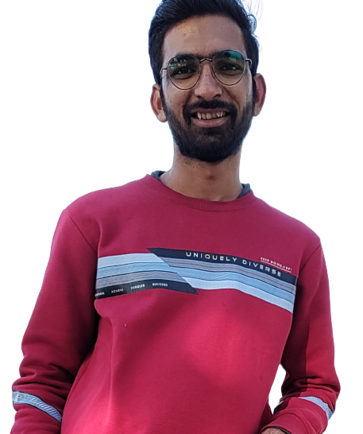
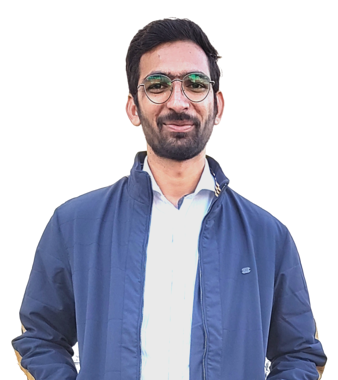
change person pic

diff --git a/src/components/Home/Home.jsx b/src/components/Home/Home.jsx
@@ -20,11 +20,7 @@ const Home = () => {
                 variants={fadeIn("right", "tween", 0.2, 1)}>
                     Hey There, <br /> I'm Naval
                 </motion.span>
-                {/* <motion.span className='secondaryText'
-                    variants={fadeIn("left", "tween", 0.4, 1)}>
-                    Frontend Developer
-                    <br /> I love to design beautiful ui
-                </motion.span> */}
+
                 <motion.div variants={fadeIn("left", "tween", 0.2, 1)} className={css.college}>
                     <img src="./college.png" alt="collegeImage" />
                     <span>M N N I T '22</span>
@@ -36,11 +32,6 @@ const Home = () => {
             <motion.div className={css.person} variants={fadeIn("up", "tween", 0.3, 1)}>
                 <motion.img src='./person.png' alt='myImage' variants={slideIn("up", "tween", 0.5, 1.2)}/>
             </motion.div>
-
-            {/* my email */}
-            {/* <a className={css.email} href='mailto:nehranvl2017@gmail.com'>
-                nehranvl2017@gmail.com
-            </a> */}
 
             <div className={css.lowerElement}>
                 <motion.span className='secondaryText'
@@ -58,11 +49,7 @@ const Home = () => {
                         <div>Experience</div>
                     </div>
                 </motion.div>
-                {/* <motion.div variants={fadeIn("left", "tween", 0.2, 1)} className={css.certificate}>
-                    <img src="./college.png" alt="collegeImage" />
-                    <span>M N N I T '22</span>
-                    <span>Electronic and Communication Engineering</span>
-                </motion.div> */}
+
             </div>
         </motion.div>
     </section>

diff --git a/src/components/Header/Header.jsx b/src/components/Header/Header.jsx
@@ -1,6 +1,7 @@
-import React, { useRef, useState } from 'react'
+import React, { useRef, useState,createContext } from 'react'
 import css from './Header.module.scss'
 import {BiMenuAltRight, BiDownload} from 'react-icons/bi'
+import {FaSun, FaMoon} from 'react-icons/fa'
 import {motion} from 'framer-motion'
 import {getMenuStyles, headerVariants } from '../../utils/motion'
 import useHeaderShadow from '../../hooks/useHeaderShadow'
@@ -24,6 +25,14 @@ const Header = () => {
   const headerShadow = useHeaderShadow();
   const menuRef = useRef()
 
+  //navwe
+  const [menuClick, setMenuClick] = useState(0);
+  // const [darkMode, setDarkMode] = useState(false);
+
+  // function Dark_Bright(){
+  //   return darkMode ? <FaSun color='#fff' size={"20px"}/> : <FaMoon size={"20px"}/>
+  // }
+
   useOutsideAlerter({
     menuRef,
     setMenuOpened
@@ -43,6 +52,9 @@ const Header = () => {
         <div className={css.name}>
           Navala Ram
         </div>
+        {/* <div onClick={()=>setDarkMode(prev=> !prev)}>
+          {Dark_Bright()}
+        </div> */}
         <ul ref={menuRef}
           style={getMenuStyles(menuOpened)} className={`flexCenter ${css.menu}`}>
           <li><a href="#Home">Home</a></li>
@@ -57,8 +69,10 @@ const Header = () => {
           </li>
         </ul>
         <div className={css.menuIcon}
-          onClick= {()=>setMenuOpened((prev)=> !prev)}
-          >
+          onClick= {()=>{setMenuClick(prev=> prev+1); 
+            // setMenuOpened((prev)=> !prev); 
+            setMenuOpened(menuClick%2 ? false : true);
+          }}>
           <BiMenuAltRight size={30}/>
         </div>
       </div>

diff --git a/src/components/Home/Home.module.scss b/src/components/Home/Home.module.scss
@@ -14,6 +14,9 @@
                 justify-content: center;
                 text-align: center;
                 gap: 2rem;
+                //navwe
+                display: flex;
+                flex-direction: column;
             }
             display: flex;
             align-items: center;
@@ -72,11 +75,14 @@
         }
 
         .lowerElement{
-            @media (max-width: $sm),
-            (max-width: $md) {
+            @media (max-width: $sm){
                 margin-top: 4rem;
+                align-items: center;
                 gap: 2rem;
                 justify-content: center;
+                //navwe
+                display: flex;
+                flex-direction: column;
             }
             margin-top: 12rem;
             display: flex;;
@@ -92,16 +98,6 @@
                 }
             }
 
-            // .college{
-            //     display: flex;
-            //     flex-direction:column;
-            //     align-items: center;
-
-            //     .img{
-            //         margin-bottom: 1rem;
-            //         width: 3.5rem;
-            //     }
-            // }
         }
     }
 }

diff --git a/src/components/Socials/Social.module.scss b/src/components/Socials/Social.module.scss
@@ -47,14 +47,11 @@
 
                 .icons{
                     margin: auto;
-                    // border-radius: 100%;
                     align-items: center;
-                    // text-align: center;
                     padding: 10px;
                     border-radius: 999px;
                     width: 3.5rem;
                     height: 3.5rem;
-                    // position: absolute;
                     top: -2rem;
                     filter: drop-shadow(0px 4px 4px rgba(0, 0, 0, 0.08));
 

diff --git a/src/hooks/useOutsideAlerter.jsx b/src/hooks/useOutsideAlerter.jsx
@@ -9,7 +9,7 @@ export default function useOutsideAlerter({menuRef, setMenuOpened}) {
     function handleClickOutside(event) {
       if (menuRef.current && !menuRef.current.contains(event.target)) {
         if (viewport_width <= 768) {
-            setMenuOpened(false);
+          setMenuOpened(false);
         }
       }
     }
